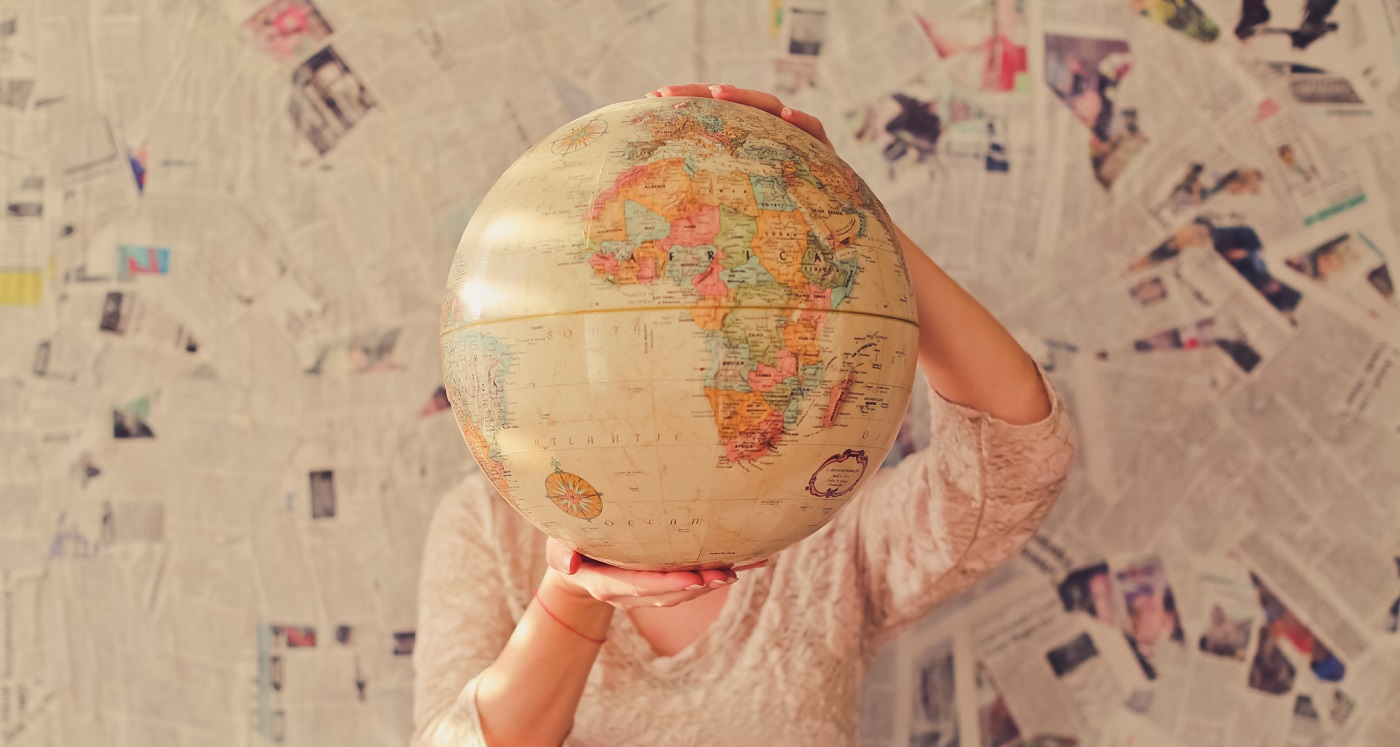
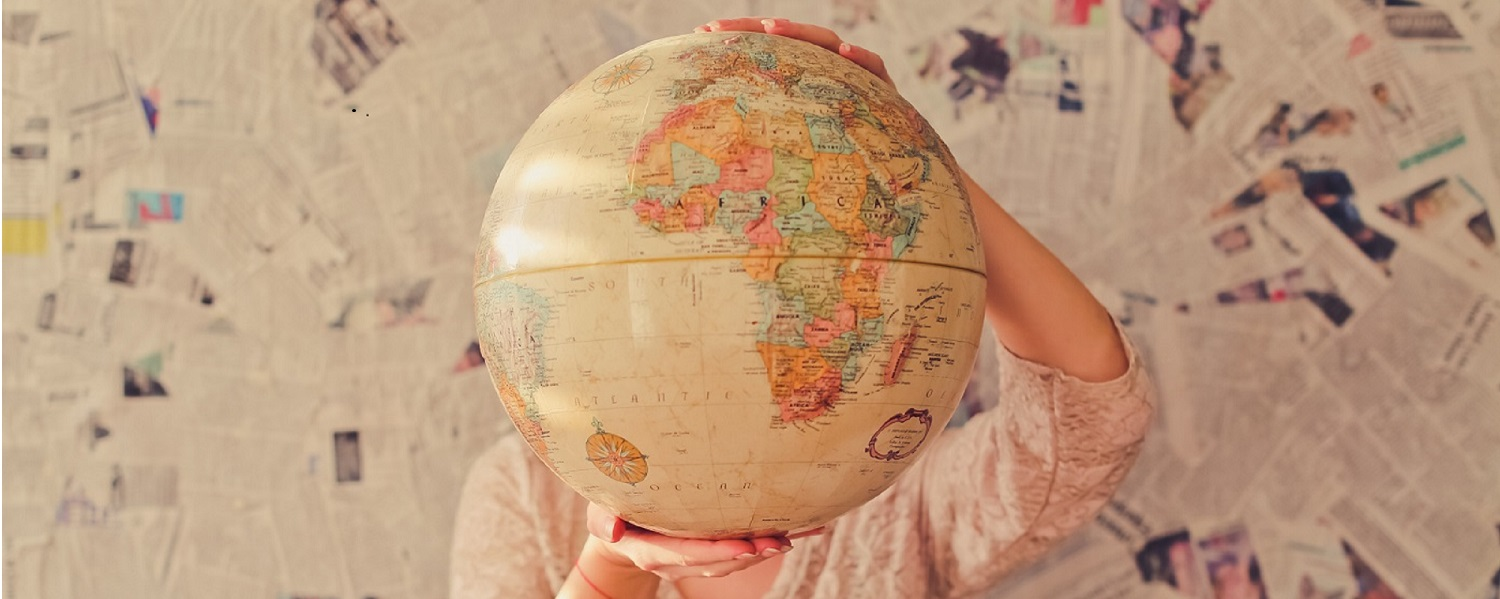
home view images

diff --git a/src/main/webapp/VAADIN/themes/travelBookingTheme/travelBookingTheme.scss b/src/main/webapp/VAADIN/themes/travelBookingTheme/travelBookingTheme.scss
@@ -27,7 +27,6 @@ $v-layout-margin-left: $v-layout-margin-top !default;
 $v-layout-spacing-vertical: round($v-unit-size / 1.8) !default;
 $v-layout-spacing-horizontal: round($v-unit-size / 1.8) !default;
 $travel-background-image: "img/login-bg.jpg" !default;
-$home-banner-image: "img/globe.jpg" !default;
 
 @import "../valo/valo.scss";
 @mixin travelBookingTheme {
@@ -60,15 +59,5 @@ $home-banner-image: "img/globe.jpg" !default;
 			text-align: center;
 		}
 	}
-
-	.home-view {
-		padding: 0px;
-		@if $home-banner-image {
-      		background-image: url(#{$home-banner-image});
-     		background-size: cover;
-     		width: 100% !important;
-    	} 
-	}
-
 
 }

diff --git a/src/main/webapp/VAADIN/themes/travelBookingTheme/styles.css b/src/main/webapp/VAADIN/themes/travelBookingTheme/styles.css
@@ -14809,10 +14809,3 @@ div.v-layout.v-horizontal.v-widget {
 .travelBookingTheme .package-grid .v-grid-tablewrapper .v-grid-row {
 	text-align: center;
 }
-
-.travelBookingTheme .home-view {
-	padding: 0px;
-	background-image: url(img/globe.jpg);
-	background-size: cover;
-	width: 100% !important;
-}

diff --git a/src/main/java/sg/bizplus/backend/mock/MockPackageDS.java b/src/main/java/sg/bizplus/backend/mock/MockPackageDS.java
@@ -9,15 +9,15 @@ public class MockPackageDS {
 		String info = "Thailand 4D3N"; 
 		PackageDetail pkg1 = new PackageDetail("C:/Dev/git/travelBooking/dynamicImages/HimalayasPic.jpg", info);
 		pkgList.add(pkg1);
-		pkgList.add(new PackageDetail("C:/Dev/git/travelBooking/dynamicImages/CostaRicaBeach.jpg", ""));
+		pkgList.add(new PackageDetail("C:/Dev/git/travelBooking/dynamicImages/Beach.jpg", ""));
 		pkgList.add(new PackageDetail("C:/Dev/git/travelBooking/dynamicImages/Thailand.jpg", ""));
-		pkgList.add(new PackageDetail("C:/Dev/git/travelBooking/dynamicImages/CostaRicaBeach.jpg", ""));
+		pkgList.add(new PackageDetail("C:/Dev/git/travelBooking/dynamicImages/Beach.jpg", ""));
 		pkgList.add(new PackageDetail("C:/Dev/git/travelBooking/dynamicImages/Thailand.jpg", ""));
-		pkgList.add(new PackageDetail("C:/Dev/git/travelBooking/dynamicImages/CostaRicaBeach.jpg", ""));
+		pkgList.add(new PackageDetail("C:/Dev/git/travelBooking/dynamicImages/Beach.jpg", ""));
 		pkgList.add(new PackageDetail("C:/Dev/git/travelBooking/dynamicImages/Thailand.jpg", ""));
-		pkgList.add(new PackageDetail("C:/Dev/git/travelBooking/dynamicImages/CostaRicaBeach.jpg", ""));
+		pkgList.add(new PackageDetail("C:/Dev/git/travelBooking/dynamicImages/Beach.jpg", ""));
 		pkgList.add(new PackageDetail("C:/Dev/git/travelBooking/dynamicImages/Thailand.jpg", ""));
-		pkgList.add(new PackageDetail("C:/Dev/git/travelBooking/dynamicImages/CostaRicaBeach.jpg", ""));
+		pkgList.add(new PackageDetail("C:/Dev/git/travelBooking/dynamicImages/Beach.jpg", ""));
 		pkgList.add(new PackageDetail("C:/Dev/git/travelBooking/dynamicImages/Thailand.jpg", ""));
 		return pkgList;
 	}

diff --git a/src/main/java/sg/bizplus/views/home/HomeView.java b/src/main/java/sg/bizplus/views/home/HomeView.java
@@ -5,13 +5,14 @@ import java.util.List;
 
 import com.vaadin.icons.VaadinIcons;
 import com.vaadin.navigator.View;
+import com.vaadin.server.ThemeResource;
 import com.vaadin.ui.Button;
 import com.vaadin.ui.CssLayout;
 import com.vaadin.ui.FormLayout;
 import com.vaadin.ui.GridLayout;
 import com.vaadin.ui.HorizontalLayout;
+import com.vaadin.ui.Image;
 import com.vaadin.ui.Panel;
-import com.vaadin.ui.VerticalLayout;
 import com.vaadin.ui.themes.ValoTheme;
 
 import sg.bizplus.backend.mock.MockPackageDS;
@@ -34,16 +35,15 @@ public class HomeView extends CssLayout implements View {
 	private void buildUI() {
 		main = new Panel();
 		main.setSizeFull();
-		
+
 		mainLayout = new FormLayout();
-		mainLayout.setMargin(false);
+		mainLayout.setMargin(true);
 		mainLayout.setWidth("100%");
 
-		VerticalLayout banner = new VerticalLayout();
-		banner.setMargin(false);
-		banner.setSpacing(false);
-		banner.setStyleName("home-view");
-		banner.setHeight("530px");
+		ThemeResource resource = new ThemeResource("img/globe.jpg");
+		Image banner = new Image("", resource);
+		banner.setWidth("100%");
+		banner.setHeight("100%");
 
 		HorizontalLayout userActionsBar = getUserActionBar();
 
@@ -56,7 +56,7 @@ public class HomeView extends CssLayout implements View {
 		packages.stream().forEach(detail -> grid.addComponent(new PackageComponent(detail)));
 
 		mainLayout.addComponents(banner, userActionsBar, grid);
-		
+
 		main.setContent(mainLayout);
 		addComponent(main);
 	}
